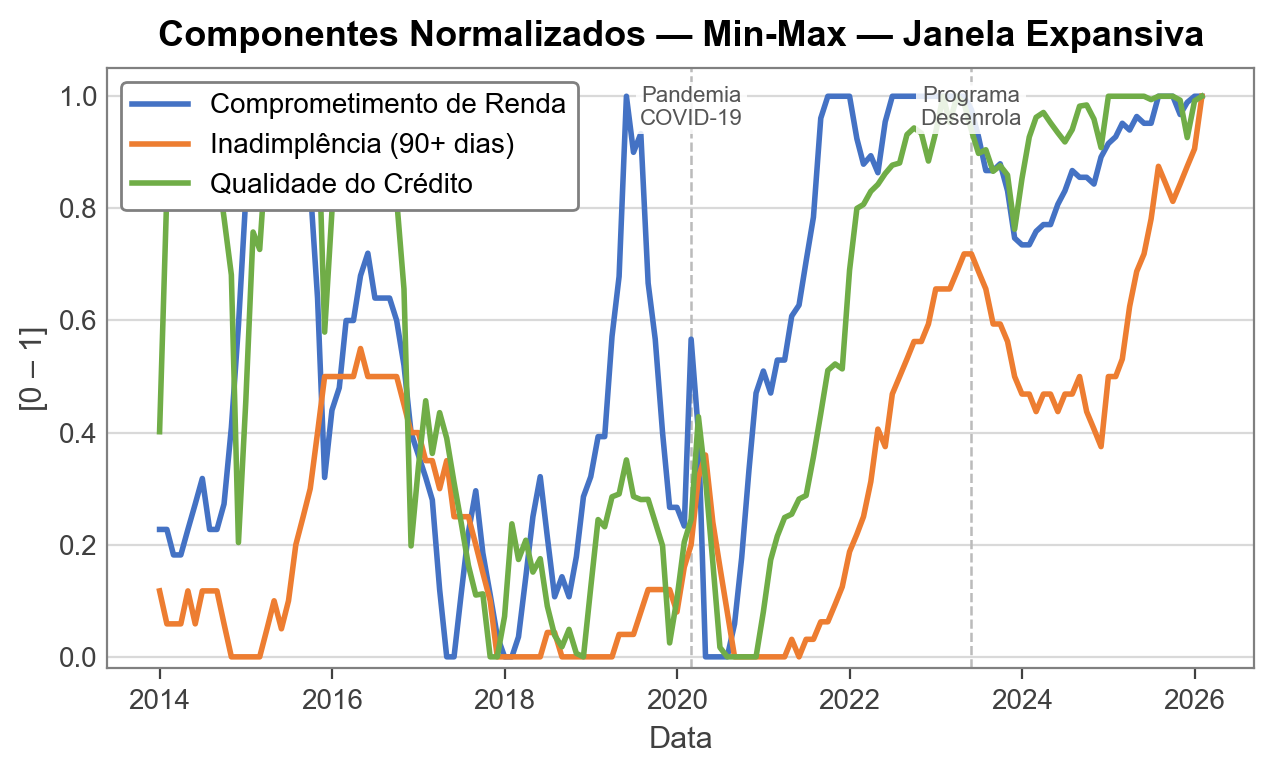
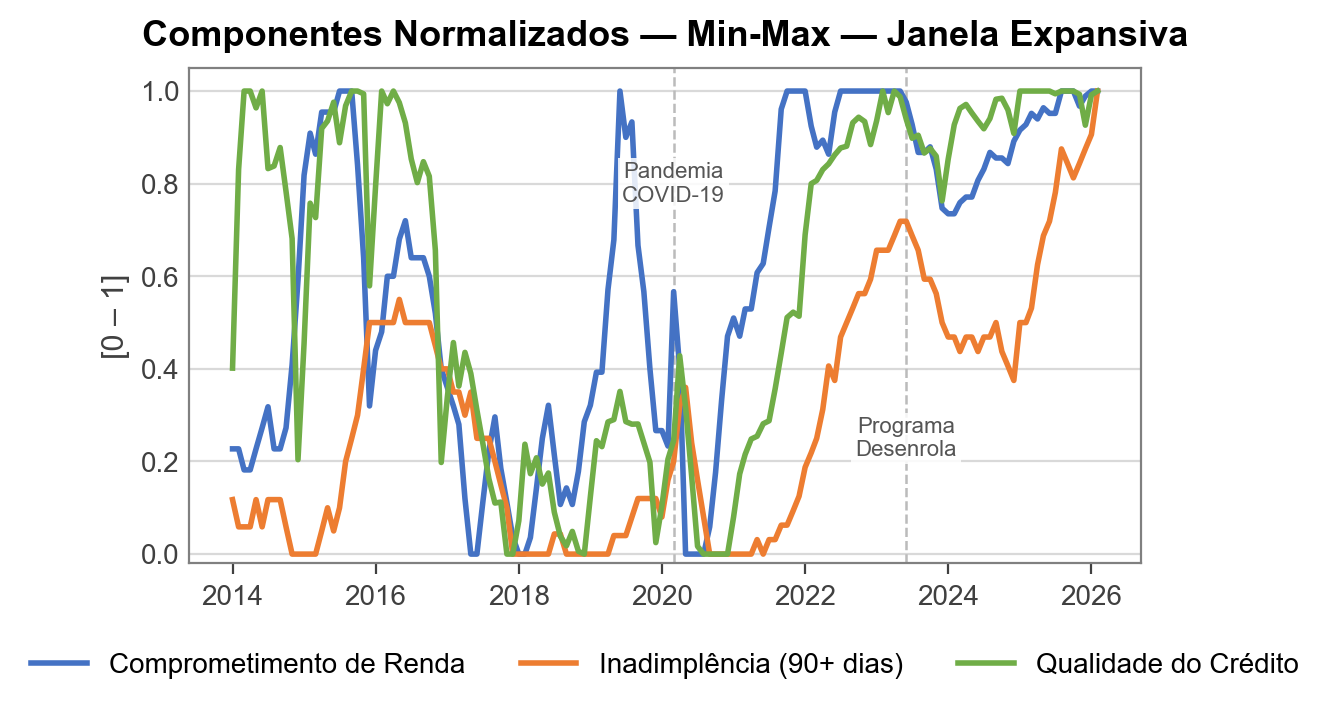
style(plots): refine chart labeling and legends

diff --git a/src/plot.py b/src/plot.py
@@ -175,7 +175,7 @@ def _apply_excel_style() -> None:
     })
 
 
-def _style_ax(ax, xlabel: str = "Data", ylabel: str = None, ylim: tuple = None) -> None:
+def _style_ax(ax, xlabel: str = None, ylabel: str = None, ylim: tuple = None) -> None:
     for spine in ax.spines.values():
         spine.set_visible(True)
         spine.set_color("#808080")
@@ -666,7 +666,7 @@ def _plot_raw_component_panel(
     rng = ymax - ymin
     _style_ax(
         ax,
-        xlabel="Data" if show_xlabel else None,
+        xlabel=None,
         ylabel=unit,
         ylim=(ymin - rng * 0.05, ymax + rng * 0.20),
     )
@@ -838,11 +838,19 @@ def _plot_components_normalized(index_df: pd.DataFrame) -> None:
         )
 
     _style_ax(ax, ylabel="[0 – 1]", ylim=(-0.02, 1.05))
-    _add_events(ax)
-    ax.legend(loc="upper left")
+    _add_events(ax, label_positions={
+        "Pandemia\nCOVID-19": {"coords": "data", "y": 0.80, "ha": "center", "va": "center"},
+        "Programa\nDesenrola": {"coords": "data", "y": 0.25, "ha": "center", "va": "center"},
+    })
+    ax.legend(
+        loc="upper center",
+        bbox_to_anchor=(0.5, -0.13),
+        ncol=3,
+        frameon=False,
+    )
     ax.set_title("Componentes Normalizados — Min-Max — Janela Expansiva")
 
-    fig.tight_layout()
+    fig.tight_layout(rect=[0, 0.06, 1, 1])
     _save(fig, "components_normalized.png")
 
 
